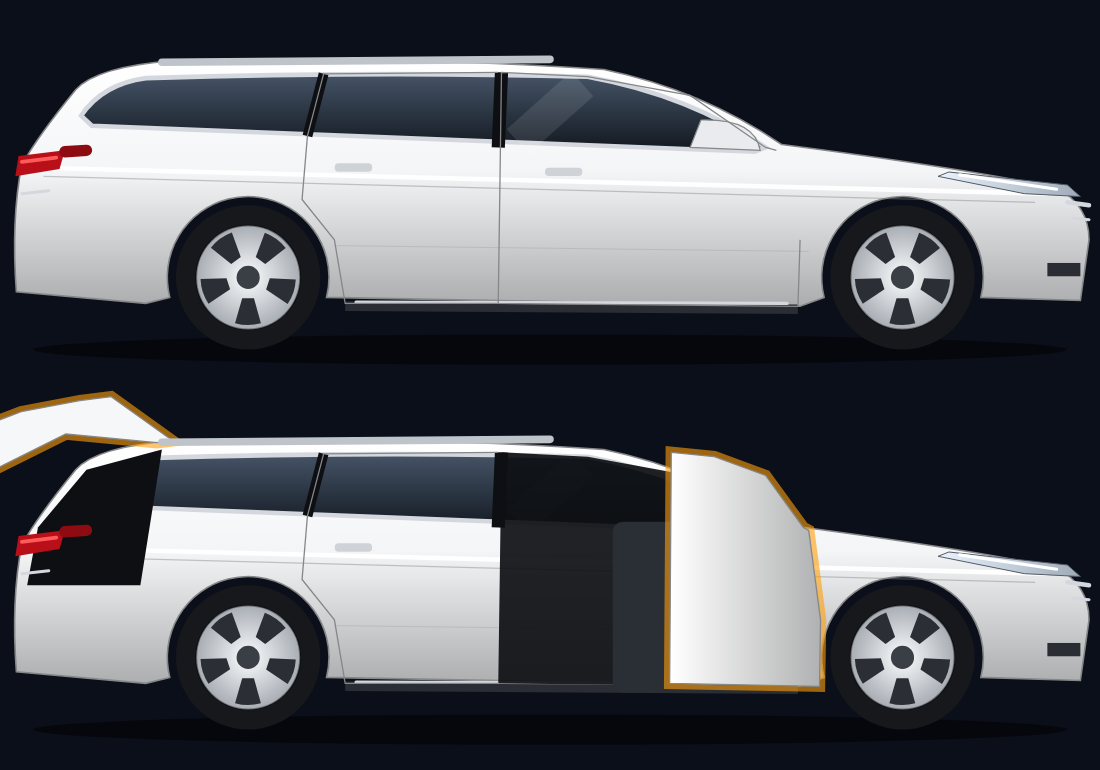
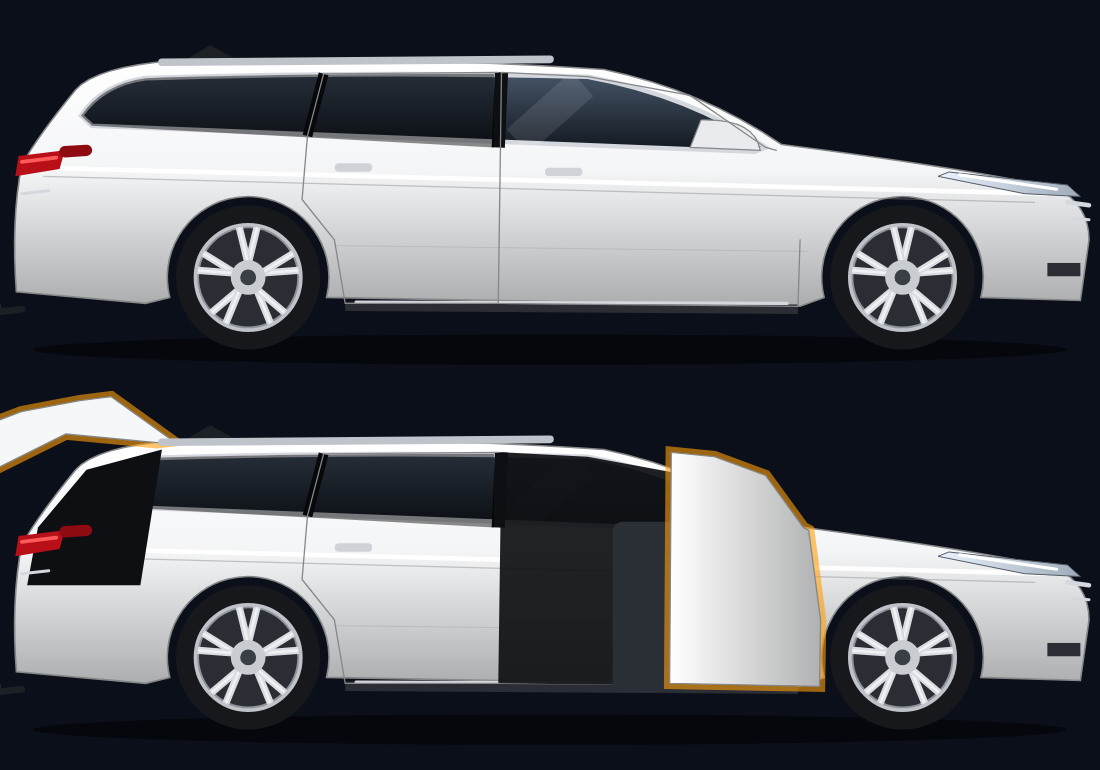
Passat B8 : jantes 10 branches, vitres surteintées, antenne, attelage + option « Ma photo »
- Détails repris des photos du propriétaire
- Affichage au choix : profil, vue 3/4 dessus, photo de la voiture
  (schéma des ouvrants affiché par-dessus la photo)

Claude-Session: https://claude.ai/code/session_01HFzBx4YDVyh9gVpmRfSveH

diff --git a/app/src/main/java/app/drivehome/CarScreen.kt b/app/src/main/java/app/drivehome/CarScreen.kt
@@ -101,7 +101,7 @@ fun CarCard(state: AppState, modifier: Modifier) {
             CardHeader(state.prefs.carName.ifBlank { "Ma voiture" })
             if (state.prefs.car3dOnHome || !Car3D.exists(LocalContext.current)) {
                 CarVisual(state, Modifier.weight(1f).fillMaxWidth(), interactive = false)
-            } else if (state.prefs.carView == 0) {
+            } else if (state.prefs.carView != 1) {
                 SideCarView(d, state.carColor(), Modifier.weight(1f).fillMaxWidth())
             } else {
                 CarView(d, state.carColor(), Modifier.weight(1f).fillMaxWidth(), rotatable = false)
@@ -249,7 +249,9 @@ fun CarVisual(state: AppState, modifier: Modifier, interactive: Boolean, onParts
                 )
             }
         }
-    } else if (pf.carView == 0) {
+    } else if (pf.carView == 2 && pf.carPhotoUri.isNotEmpty()) {
+        CarPhoto(state, modifier)
+    } else if (pf.carView != 1) {
         Box(modifier, contentAlignment = Alignment.Center) {
             SideCarView(state.car.doors, state.carColor(), Modifier.fillMaxWidth())
             if (state.car.doors.anyOpen()) {
@@ -270,6 +272,7 @@ fun CarVisual(state: AppState, modifier: Modifier, interactive: Boolean, onParts
 
 @Composable
 private fun CarHero(state: AppState, modifier: Modifier, onPartsListed: (List<String>) -> Unit) {
+    val ctxHero = LocalContext.current
     val p = LocalPalette.current
     val pf = state.prefs
     val d = state.car.doors
@@ -287,9 +290,33 @@ private fun CarHero(state: AppState, modifier: Modifier, onPartsListed: (List<St
                 LicensePlate(pf.carPlate)
             }
             CarVisual(state, Modifier.weight(1f).fillMaxWidth(), interactive = true, onPartsListed = onPartsListed)
-            Row(horizontalArrangement = Arrangement.spacedBy(8.dp)) {
+            val photoPicker = androidx.activity.compose.rememberLauncherForActivityResult(
+                androidx.activity.result.contract.ActivityResultContracts.OpenDocument(),
+            ) { uri ->
+                if (uri != null) {
+                    try {
+                        ctxHero.contentResolver.takePersistableUriPermission(uri, android.content.Intent.FLAG_GRANT_READ_URI_PERMISSION)
+                    } catch (e: Exception) {
+                        // droit persistant indisponible
+                    }
+                    pf.carPhotoUri = uri.toString()
+                    pf.carView = 2
+                }
+            }
+            Row(Modifier.horizontalScroll(rememberScrollState()), horizontalArrangement = Arrangement.spacedBy(8.dp)) {
                 Pill("Profil", pf.carView == 0, { pf.carView = 0 })
                 Pill("Vue 3/4 dessus", pf.carView == 1, { pf.carView = 1 })
+                Pill(if (pf.carPhotoUri.isEmpty()) "Ma photo…" else "Ma photo", pf.carView == 2, {
+                    if (pf.carPhotoUri.isEmpty() || pf.carView == 2) {
+                        try {
+                            photoPicker.launch(arrayOf("image/*"))
+                        } catch (e: Exception) {
+                            Apps.toast(ctxHero, "Aucun sélecteur de fichiers")
+                        }
+                    } else {
+                        pf.carView = 2
+                    }
+                })
             }
             Spacer(Modifier.height(6.dp))
             Text(
@@ -712,5 +739,42 @@ private fun Model3DPanel(state: AppState, partNames: List<String>) {
             },
             confirmButton = { TextButton(onClick = { pickFor = null }) { Text("Fermer") } },
         )
+    }
+}
+
+/** Photo de la voiture de l'utilisateur, avec le schéma des ouvrants par-dessus. */
+@Composable
+fun CarPhoto(state: AppState, modifier: Modifier) {
+    val ctx = LocalContext.current
+    val uri = state.prefs.carPhotoUri
+    val img by androidx.compose.runtime.produceState<androidx.compose.ui.graphics.ImageBitmap?>(null, uri) {
+        value = kotlinx.coroutines.withContext(kotlinx.coroutines.Dispatchers.IO) { decodeSampled(ctx, uri) }
+    }
+    val d = state.car.doors
+    Box(
+        modifier
+            .clip(RoundedCornerShape(20.dp))
+            .then(if (d.anyOpen()) Modifier.border(3.dp, Color(0xFFFF9F0A), RoundedCornerShape(20.dp)) else Modifier),
+    ) {
+        val b = img
+        if (b != null) {
+            androidx.compose.foundation.Image(
+                bitmap = b,
+                contentDescription = null,
+                contentScale = androidx.compose.ui.layout.ContentScale.Crop,
+                modifier = Modifier.fillMaxSize(),
+            )
+        }
+        if (d.anyOpen()) {
+            Box(
+                Modifier
+                    .align(Alignment.BottomStart)
+                    .padding(10.dp)
+                    .clip(RoundedCornerShape(16.dp))
+                    .background(Color(0xCC1C1C1E)),
+            ) {
+                CarView(d, state.carColor(), Modifier.width(90.dp).height(90.dp), tilt = 0f, initialSpin = 0f, rotatable = false)
+            }
+        }
     }
 }

diff --git a/app/src/main/java/app/drivehome/CarSide.kt b/app/src/main/java/app/drivehome/CarSide.kt
@@ -131,6 +131,21 @@ private fun DrawScope.drawSideCar(
     drawLine(dark, P(0.545f, 0.04f), P(0.548f, 0.30f), w * 0.012f)
     drawLine(dark, P(0.71f, 0.045f), P(0.725f, 0.26f), w * 0.009f)
     drawLine(Color.White.copy(alpha = 0.10f), P(0.47f, 0.08f), P(0.53f, 0.28f), w * 0.03f)
+    // vitres arrière surteintées
+    val privacy = Path().apply {
+        moveTo(X(0.552f), Y(0.045f))
+        q(0.75f, 0.045f, 0.875f, 0.06f)
+        q(0.915f, 0.08f, 0.935f, 0.19f)
+        lineTo(X(0.925f), Y(0.225f))
+        lineTo(X(0.552f), Y(0.30f))
+        close()
+    }
+    drawPath(privacy, Color.Black.copy(alpha = 0.45f))
+    // antenne « aileron de requin »
+    drawPath(poly(listOf(0.79f to -0.002f, 0.815f to -0.055f, 0.84f to 0.0f)), Color(0xFF1C1F24))
+    // attelage
+    drawLine(Color(0xFF1C1F24), P(0.99f, 0.86f), P(1.012f, 0.87f), h * 0.018f, cap = StrokeCap.Round)
+    drawCircle(Color(0xFF2A2D33), h * 0.016f, P(1.015f, 0.85f))
     // côté passager : liseré orange sous la vitre correspondante
     if (fr > 0.01f) drawLine(warn.copy(alpha = fr), P(0.33f, 0.335f), P(0.54f, 0.305f), h * 0.02f, cap = StrokeCap.Round)
     if (rr > 0.01f) drawLine(warn.copy(alpha = rr), P(0.555f, 0.30f), P(0.72f, 0.275f), h * 0.02f, cap = StrokeCap.Round)
@@ -207,25 +222,24 @@ private fun DrawScope.drawSideCar(
     // barres de toit
     drawLine(Color(0xFFBFC4CB), P(0.50f, -0.005f), P(0.86f, 0.005f), h * 0.018f, cap = StrokeCap.Round)
 
-    // roues : pneus + jantes aéro
+    // roues : pneus + jantes alu 10 branches (5 doubles branches)
     fun wheel(cx: Float) {
         val c = Offset(X(cx), wheelY)
         drawCircle(Color(0xFF16181C), r, c)
-        drawCircle(Brush.radialGradient(listOf(Color(0xFFF0F2F4), Color(0xFFA6ABB2)), c, r * 0.74f), r * 0.72f, c)
-        for (i in 0 until 5) {
-            val a0 = Math.toRadians((i * 72 - 70).toDouble())
-            val a1 = a0 + 0.55
-            val spoke = Path().apply {
-                moveTo(c.x + (cos(a0) * r * 0.30f).toFloat(), c.y + (sin(a0) * r * 0.30f).toFloat())
-                lineTo(c.x + (cos(a0) * r * 0.66f).toFloat(), c.y + (sin(a0) * r * 0.66f).toFloat())
-                lineTo(c.x + (cos(a1) * r * 0.66f).toFloat(), c.y + (sin(a1) * r * 0.66f).toFloat())
-                lineTo(c.x + (cos(a1) * r * 0.30f).toFloat(), c.y + (sin(a1) * r * 0.30f).toFloat())
-                close()
+        drawCircle(Color(0xFF8E939A), r * 0.73f, c)
+        drawCircle(Color(0xFF2A2D33), r * 0.68f, c)
+        for (k in 0 until 5) {
+            for (d in listOf(-10.0, 10.0)) {
+                val a = Math.toRadians(k * 72.0 - 90.0 + d)
+                val e = Offset(c.x + (cos(a) * r * 0.69f).toFloat(), c.y + (sin(a) * r * 0.69f).toFloat())
+                val m = Offset(c.x + (cos(a - Math.toRadians(d * 0.8)) * r * 0.22f).toFloat(), c.y + (sin(a - Math.toRadians(d * 0.8)) * r * 0.22f).toFloat())
+                drawLine(Color(0xFFD9DCE0), m, e, r * 0.10f, cap = StrokeCap.Round)
+                drawLine(Color.White.copy(alpha = 0.6f), m, e, r * 0.035f, cap = StrokeCap.Round)
             }
-            drawPath(spoke, Color(0xFF2B2F35))
         }
-        drawCircle(Color(0xFF3A3E45), r * 0.16f, c)
-        drawCircle(Color.Black.copy(alpha = 0.35f), r * 0.72f, c, style = Stroke(px * 0.8f))
+        drawCircle(Brush.radialGradient(listOf(Color(0xFFE9ECEF), Color(0xFF9EA3AA)), c, r * 0.25f), r * 0.24f, c)
+        drawCircle(Color(0xFF3A3E45), r * 0.11f, c)
+        drawCircle(Color(0xFFBFC3C9), r * 0.73f, c, style = Stroke(r * 0.05f))
     }
     wheel(fx)
     wheel(rx)

diff --git a/app/src/main/java/app/drivehome/Prefs.kt b/app/src/main/java/app/drivehome/Prefs.kt
@@ -164,8 +164,9 @@ class Prefs(context: Context) {
     // ---- Ma voiture -----------------------------------------------------------
 
     var carName by StrPref("carName", "Passat Variant")
-    /** Dessin : 0 = profil (B8), 1 = vue de dessus 3D. */
+    /** Affichage : 0 = profil (B8), 1 = vue 3/4 dessus, 2 = ma photo. */
     var carView by IntPref("carView", 0)
+    var carPhotoUri by StrPref("carPhotoUri", "")
     var carPlate by StrPref("carPlate", "")
     /** 0 = diesel, 1 = essence, 2 = hybride, 3 = électrique. */
     var carFuel by IntPref("carFuel", 0)

diff --git a/app/src/main/java/app/drivehome/Shell.kt b/app/src/main/java/app/drivehome/Shell.kt
@@ -181,7 +181,7 @@ fun WallpaperLayer(state: AppState) {
     }
 }
 
-private fun decodeSampled(ctx: Context, uriString: String): ImageBitmap? {
+fun decodeSampled(ctx: Context, uriString: String): ImageBitmap? {
     return try {
         val uri = Uri.parse(uriString)
         val bounds = BitmapFactory.Options().apply { inJustDecodeBounds = true }
